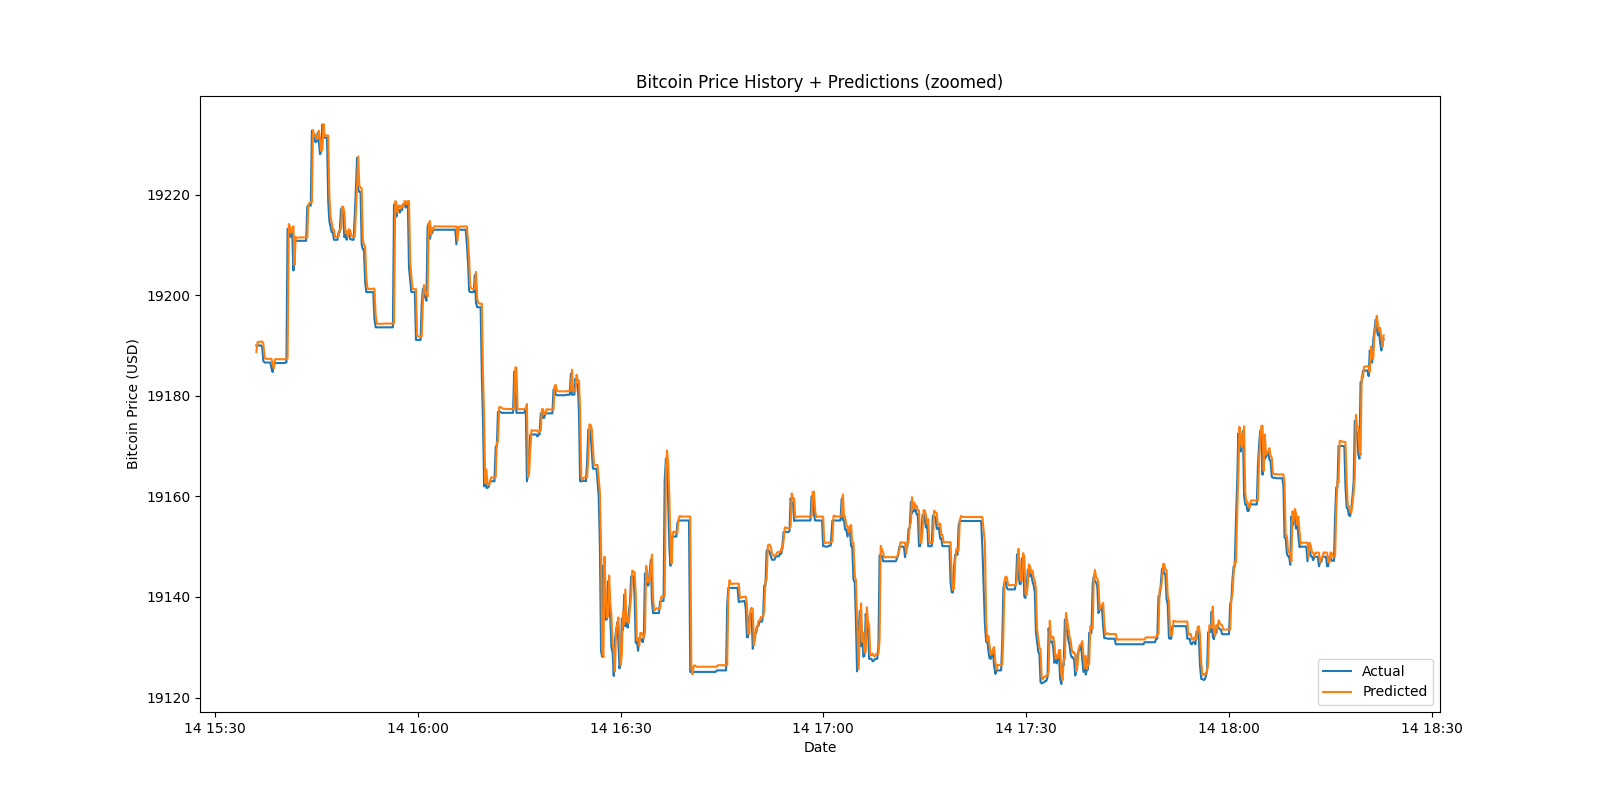
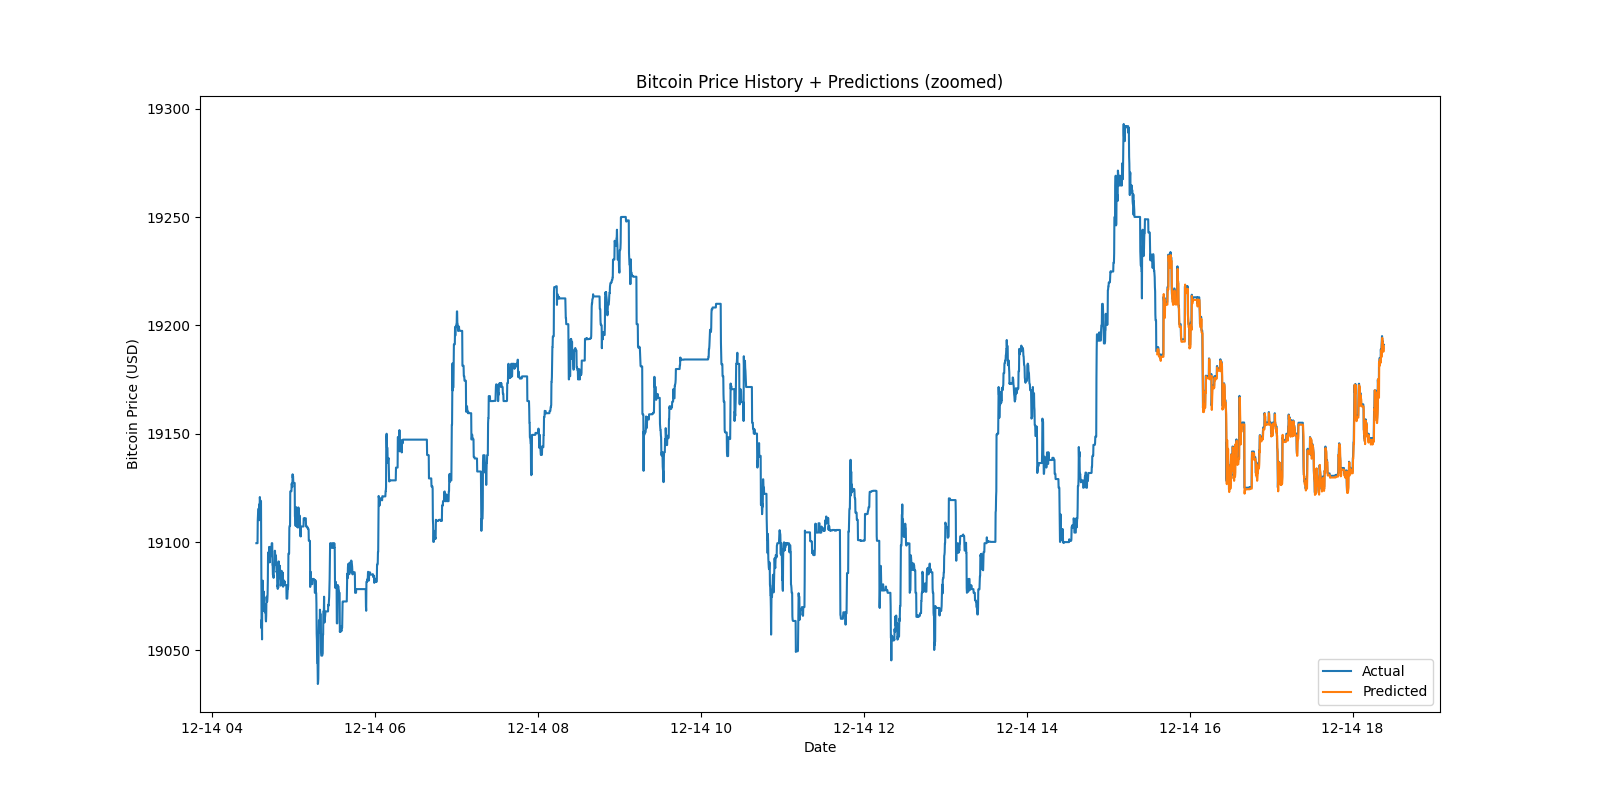
replaced valid with predictions

diff --git a/CryptoPredict.py b/CryptoPredict.py
@@ -128,20 +128,24 @@ valid = new_data[midpoint:]
 
 valid['predictions'] = next_price
 
-plotSave([new_data['close'],valid['predictions']], 'Date', 'Bitcoin Price (USD)', 'Bitcoin Price History + Predictions', ['Actual', 'Predicted'], 'predictions.png') 
-plotSave([valid[['close','predictions']]], 'Date', 'Bitcoin Price (USD)', 'Bitcoin Price History + Predictions (zoomed)', ['Actual', 'Predicted'], 'predictions_zoomed.png') 
+predictions = pd.DataFrame()
+predictions['date'] = valid.index
+predictions.index = predictions['date']
+predictions['price'] = next_price
+
+plotSave([new_data['close'],predictions['price']], 'Date', 'Bitcoin Price (USD)', 'Bitcoin Price History + Predictions', ['Actual', 'Predicted'], 'predictions.png') 
+plotSave([new_data['close'], predictions['price']], 'Date', 'Bitcoin Price (USD)', 'Bitcoin Price History + Predictions (zoomed)', ['Actual', 'Predicted'], 'predictions_zoomed.png') 
 
 def getSlope(nextdf):
     return pd.Series(np.gradient(nextdf.values), nextdf.index, name='slope')
 
-valid['pred_slope'] = getSlope(valid.predictions) # try
-print(valid.tail())
+predictions['slope'] = getSlope(valid.predictions)
 
 actual_slope = getSlope(valid.close)
 
-difference = (valid['pred_slope'] - actual_slope)/actual_slope # how far off
+difference = (predictions['slope'] - actual_slope)/actual_slope # how far off
 
-plotSave([actual_slope, valid['pred_slope']], 'Date', 'Change in Bitcoin Price (USD)', 'Change in Bitcoin Price History + Predictions (zoomed)', ['Actual', 'Predicted'], 'slope.png') 
+plotSave([actual_slope, predictions['slope']], 'Date', 'Change in Bitcoin Price (USD)', 'Change in Bitcoin Price History + Predictions (zoomed)', ['Actual', 'Predicted'], 'slope.png') 
 plotSave([difference], 'Date', 'Percent Change in Bitcoin Price (USD)', 'Error Change in Bitcoin Price History + Predictions (zoomed)', ['Error'], 'error.png') 
 
 def calcError(actual_slope, pred_slope):    
@@ -155,4 +159,4 @@ def calcError(actual_slope, pred_slope):
     print('Derivative correct {:.1f}%'.format(perc_correct))
     return perc_correct
 
-r = calcError(valid['pred_slope'], actual_slope)    
+r = calcError(predictions['slope'], actual_slope)    

diff --git a/kraken.py b/kraken.py
@@ -6,6 +6,7 @@
 # Example: ./krakenapi.py Balance
 # Example: ./krakenapi.py OpenPositions
 # Example: ./krakenapi.py AddOrder pair=xxbtzusd type=buy ordertype=market volume=0.003 leverage=5
+# use MARKET ORDERS
 
 import sys
 import platform
